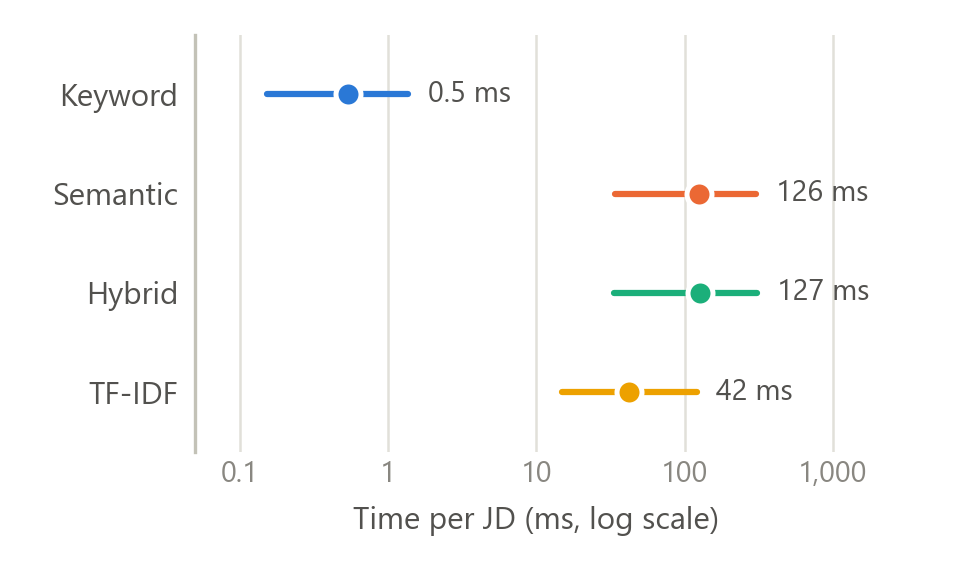
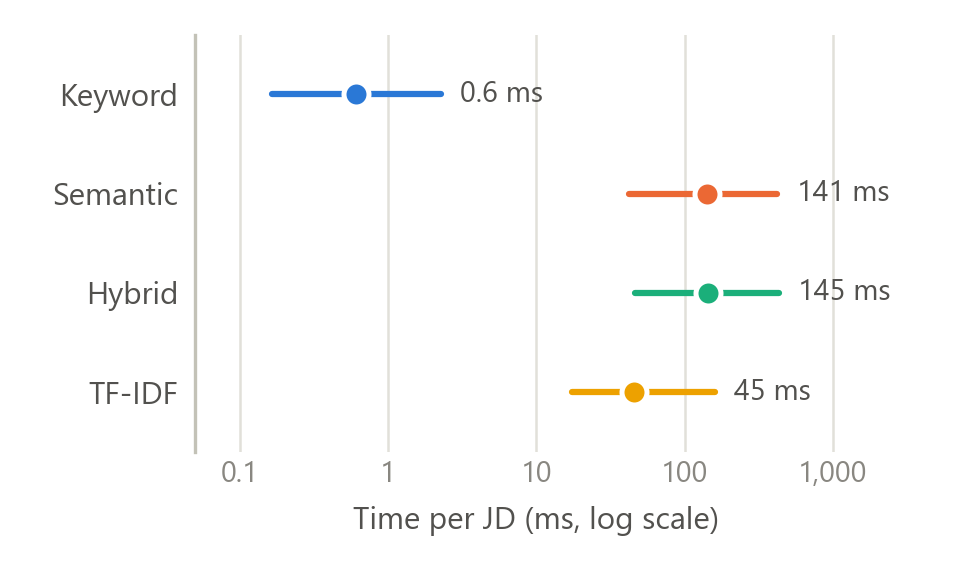
docs(nlp): add gold-set scores for the extraction method comparison
- Re-ran compare_methods.py on the frozen gold_labels.csv (892 skills,
  59 JDs): micro F1 hybrid 0.731, keyword 0.714, semantic 0.563,
  TF-IDF 0.448
- THRESHOLDS.md: TF-IDF threshold checked on the gold set; char_wb 0.25
  kept (gold-best would be word 0.30 at F1 0.539, still below keyword,
  and tuning on the reported set would overstate it)
- config.py comment and NLP_INTERFACE.md section 8 updated; runtime
  results refreshed

diff --git a/nlp/config.py b/nlp/config.py
@@ -48,7 +48,8 @@ MAX_PHRASE_TOKENS = 8
 # same 60 hand-labelled pairs; see nlp/experiments/THRESHOLDS.md.
 # F1-best: char_wb at 0.25 (P 0.784, R 0.967, F1 0.866); word 1-2-grams peak at
 # 0.30 (F1 0.833). TF-IDF cosines run lower than embedding cosines, so this is
-# not comparable with MATCH_THRESHOLD.
+# not comparable with MATCH_THRESHOLD. On the gold set (59 JDs) it scores F1
+# 0.448 (keyword 0.714, hybrid 0.731); no threshold reaches keyword, so it is kept.
 TFIDF_ANALYZER = "char_wb"
 TFIDF_MATCH_THRESHOLD = 0.25
 

diff --git a/nlp/experiments/THRESHOLDS.md b/nlp/experiments/THRESHOLDS.md
@@ -183,6 +183,40 @@ Vision (0.29). Raising the threshold does not fix this, it only removes skills:
 (Read from `results/method_comparison.csv`: a skill's confidence is its best
 phrase score, so the counts at a higher threshold are exact.) The F1-best value
 is kept as asked, so the comparison shows TF-IDF at its best on the labelled
-pairs; re-check it on the gold set once `gold_labels.csv` has rows. On the POC004
-brief example TF-IDF finds 6 of 7 (Critical Thinking missing; extra Data
-Analysis from the title "junior data analyst").
+pairs. On the POC004 brief example TF-IDF finds 6 of 7 (Critical Thinking
+missing; extra Data Analysis from the title "junior data analyst").
+
+### Check on the gold set (2026-10-29)
+
+`gold_labels.csv` (892 hand-made skills in 59 JDs, frozen after the A/B
+resolution) gives micro precision / recall / F1 per method
+(`results/method_comparison_summary.md`, "Gold labels"):
+
+| Method | Precision | Recall | F1 | Skills per JD |
+|---|---:|---:|---:|---:|
+| keyword | 0.920 | 0.583 | 0.714 | 9.6 |
+| semantic | 0.883 | 0.414 | 0.563 | 7.1 |
+| hybrid | 0.867 | 0.631 | **0.731** | 11.0 |
+| TF-IDF (char_wb, 0.25) | 0.356 | 0.604 | 0.448 | 25.7 |
+
+The same TF-IDF run at other settings on those 59 JDs (scratch script, not kept;
+same loading and scoring as `gold_scores()` in `compare_methods.py`):
+
+| Threshold | char_wb P / R / F1 | word P / R / F1 |
+|---:|---|---|
+| 0.20 | 0.319 / 0.618 / 0.421 | 0.435 / 0.580 / 0.497 |
+| **0.25** | **0.356 / 0.604 / 0.448** | 0.475 / 0.554 / 0.511 |
+| 0.30 | 0.398 / 0.595 / 0.477 | 0.540 / 0.538 / **0.539** |
+| 0.40 | 0.497 / 0.529 / 0.512 | 0.587 / 0.445 / 0.506 |
+| 0.45 | 0.542 / 0.497 / 0.518 | 0.628 / 0.407 / 0.494 |
+| 0.50 | 0.609 / 0.453 / **0.520** | 0.651 / 0.348 / 0.453 |
+| 0.60 | 0.692 / 0.331 / 0.448 | 0.783 / 0.279 / 0.412 |
+
+**Decision: keep char_wb at 0.25.** The gold set confirms the caveat above:
+the labelled pairs overrate TF-IDF, whose F1 on real JDs (0.448) is far below
+keyword (0.714) and hybrid (0.731). Retuning on the gold set would raise it to
+at most 0.539 (word, 0.30), still well below keyword, so the conclusion of the
+comparison does not depend on the threshold. Choosing the value on the set it
+is reported on would also overstate it; 0.25 was chosen on independent data.
+TF-IDF's recall stays near hybrid's even at 0.15 (0.624), so its problem is
+precision: surface look-alikes, not missed skills.

diff --git a/nlp/experiments/results/method_comparison_summary.md b/nlp/experiments/results/method_comparison_summary.md
@@ -77,14 +77,14 @@ Mean Jaccard per JD, and the JD-skill pairs found by both / only by A / only by 
 
 ## Runtime per JD
 
-Median of 5 runs per JD after a warm-up, CPU. Cold start before the first JD: model 20.5 s, spaCy 1.3 s, skill embeddings 0.4 s, TF-IDF fit 0.0 s.
+Median of 5 runs per JD after a warm-up, CPU. Cold start before the first JD: model 45.0 s, spaCy 1.3 s, skill embeddings 0.9 s, TF-IDF fit 0.1 s.
 
 | Method | Mean ms | Median ms | Min ms | Max ms |
 |---|---:|---:|---:|---:|
-| keyword | 0.6 | 0.5 | 0.2 | 1.4 |
-| semantic | 125.1 | 126.0 | 33.9 | 304.8 |
-| hybrid | 128.3 | 127.2 | 33.2 | 309.5 |
-| tfidf | 45.5 | 42.3 | 14.9 | 121.6 |
+| keyword | 0.7 | 0.6 | 0.2 | 2.3 |
+| semantic | 139.9 | 140.9 | 42.3 | 421.7 |
+| hybrid | 145.0 | 144.6 | 46.4 | 432.1 |
+| tfidf | 51.1 | 45.3 | 17.5 | 159.6 |
 
 ## Disagreements
 
@@ -103,4 +103,11 @@ Counts by class: Likely keyword miss (synonym / paraphrase) 3, Likely semantic f
 
 ## Gold labels
 
-`data/jd_dataset/gold/gold_labels.csv` has no hand-made rows yet, so no precision, recall or F1 is reported. `gold_labels_draft.csv` is a keyword pre-fill and is not ground truth.
+Hand-made gold rows cover 59 JDs; scores on those JDs only:
+
+| Method | JDs | Precision | Recall | F1 |
+|---|---:|---:|---:|---:|
+| keyword | 59 | 0.92 | 0.583 | 0.714 |
+| semantic | 59 | 0.883 | 0.414 | 0.563 |
+| hybrid | 59 | 0.867 | 0.631 | 0.731 |
+| tfidf | 59 | 0.356 | 0.604 | 0.448 |

diff --git a/docs/NLP_INTERFACE.md b/docs/NLP_INTERFACE.md
@@ -430,9 +430,12 @@ Text helpers in `nlp/normalise.py`: `normalise_text()`, `uk_spelling()`
   `TFIDF_MATCH_THRESHOLD = 0.25`, chosen on the same labelled pairs.
 - **Results (2026-10-29):** hybrid finds 10.8 skills per JD on the 65 JDs (keyword 9.4,
   semantic 7.0, TF-IDF 25.6) and 7 of 7 skills on the POC004 brief example (keyword 6,
-  TF-IDF 6 plus one extra, semantic 4). TF-IDF takes 42 ms per JD (median; semantic
-  126 ms) and fits its vectorizer in memory in a few milliseconds on first use
-  (`nlp/model.py`, `skill_tfidf()`). Tables: `nlp/experiments/results/method_comparison_summary.md`.
+  TF-IDF 6 plus one extra, semantic 4). On the hand-made gold set (892 skills in 59
+  JDs) micro F1 is hybrid 0.731, keyword 0.714, semantic 0.563, TF-IDF 0.448
+  (precision 0.867 / 0.920 / 0.883 / 0.356). TF-IDF takes about a third of semantic's
+  time per JD (median 45 ms vs 141 ms) and fits its vectorizer in memory in a few
+  milliseconds on first use (`nlp/model.py`, `skill_tfidf()`). Tables:
+  `nlp/experiments/results/method_comparison_summary.md`.
 - **Warm-up:** at FastAPI start-up, run
   `extract_skills("Good analytical and communication skills in SQL.", method="hybrid")`
   once (in a background thread if start-up should not wait), so the first real request
